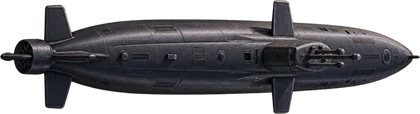
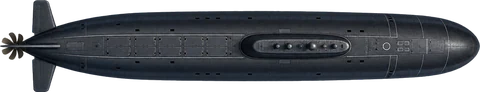
Add files via upload

diff --git a/index.html b/index.html
@@ -1147,7 +1147,7 @@ const bridge = (x, w) => `<rect x="${x}" y="31" width="${w}" height="38" rx="7" 
   <rect x="${x + w - 9}" y="36" width="4.5" height="28" rx="2" fill="#6fe3ff" opacity=".9"/>
   <line x1="${x + 8}" y1="50" x2="${x + w - 16}" y2="50" stroke="#9aa7b3" stroke-width="2"/>`;
 const LEN_SHIP = { 1: 'boat', 2: 'destroyer', 3: 'cruiser', 4: 'battleship' };
-const TOP_AR = { boat: 2.47, destroyer: 3.85, sub: 3.68, cruiser: 3.53, battleship: 2.98, sub2: 3.68, sub3: 4.74, subx: 4.74 };
+const TOP_AR = { boat: 2.47, destroyer: 3.85, sub: 3.68, cruiser: 3.53, battleship: 2.98, sub2: 5.22, sub3: 4.55, subx: 2.46 };
 function shipSVG(len, foam) {
   const W = len * 100, H = 100;
   const hull = `M8,50 C8,27 22,16 42,16 L${W - 62},16 C${W - 30},16 ${W - 12},34 ${W - 3},50 C${W - 12},66 ${W - 30},84 ${W - 62},84 L42,84 C22,84 8,73 8,50Z`;

diff --git a/sw.js b/sw.js
@@ -1,4 +1,4 @@
-const CACHE = 'battleship-v42';
+const CACHE = 'battleship-v43';
 const FILES = ['./', './index.html', './manifest.webmanifest', './icon.svg', './icon-192.png', './icon-512.png', './menu.webp', './sea1.webp', './sea2.webp', './sea3.webp', './sea4.webp', ...['boat','destroyer','sub','cruiser','battleship','sub2','sub3','subx'].flatMap(b => ['./ship_' + b + '.webp', './top_' + b + '.webp']), './fort_base.webp', './fort_base_dawn.webp', './fort_base_dusk.webp', './fort_base_night.webp', './fort_scaffold.webp', ...['citadel','treasury','barracks','walls','battery','academy','workshop','market','dock','lighthouse'].map(b => './fort_' + b + '_1.webp')];
 self.addEventListener('install', e => {
   e.waitUntil(caches.open(CACHE).then(c => c.addAll(FILES.map(u => new Request(u, { cache: 'reload' })))).then(() => self.skipWaiting()));
